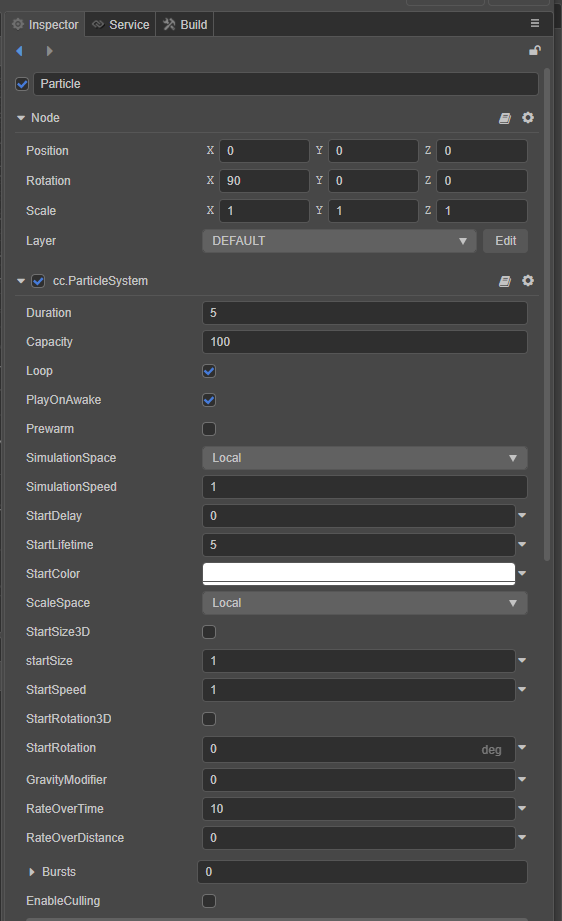
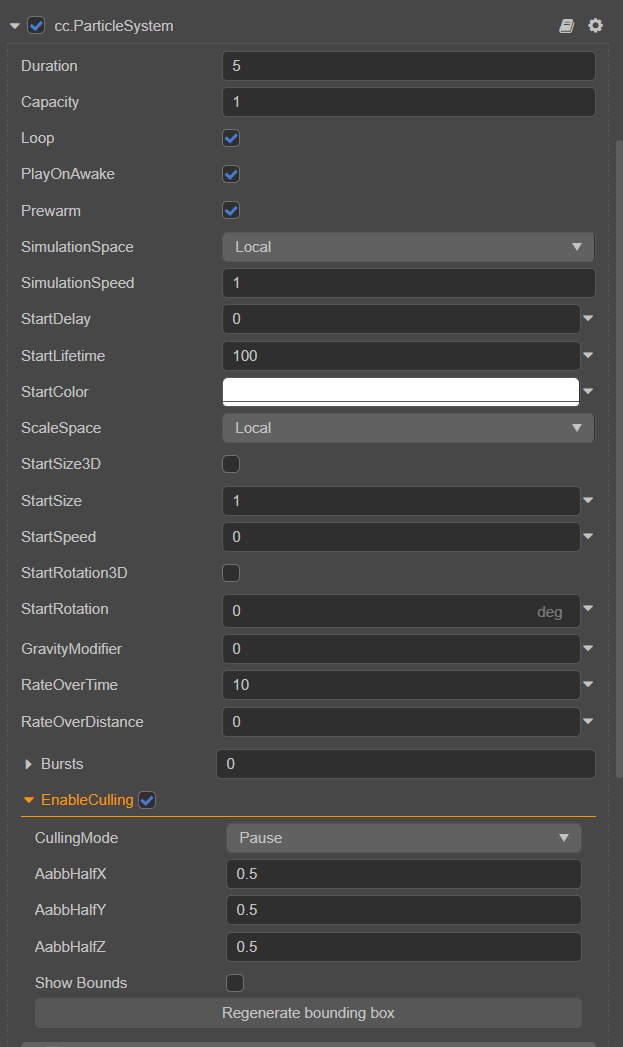
update docs

diff --git a/zh/particle-system/overview.md b/zh/particle-system/overview.md
@@ -51,4 +51,4 @@ Cocos Creator 粒子系统用模块来组织功能，包括以下模块：
 
 ## 粒子剔除
 
-粒子系统目前支持在运行时根据粒子包围盒和视景体动态剔除粒子发射器，剔除的发射器将会暂停播放粒子特效直到相机再次看到粒子包围盒。勾选 EnableCulling 选项打开剔除功能，发射器将会自动计算出一个包围盒进行剔除运算，如果需要重新计算包围盒点击一下粒子播放面板的刷新按钮。剔除运算每一帧都会进行，适合一些耗时的特效，如果粒子个数少可以考虑关闭该选项。
+粒子系统目前支持在运行时根据粒子包围盒和视景体动态剔除粒子发射器，剔除的发射器将会暂停播放粒子特效直到相机再次看到粒子包围盒。勾选 EnableCulling 选项打开剔除功能，发射器将会自动计算出一个包围盒进行剔除运算，可以修改 AabbHalf 参数改变发射器包围盒的大小，如果需要重新计算包围盒点击 Regenerate bounding box 按钮。剔除运算每一帧都会进行，适合一些耗时的特效，如果粒子个数少可以考虑关闭该选项。

diff --git a/en/particle-system/overview.md b/en/particle-system/overview.md
@@ -51,4 +51,4 @@ The __Cocos Creator__ particle system uses modules to organize functions, includ
 
 ## Particle Culling
 
-Particle System emitter support frustum & aabb culling in runtime. If emitter is culled, particle system of the emitter will stop simulating until we see the emitter again. Click __EnableCulling__ option to open particle culling and then the emitter will calculate aabb automatically. Click restart button of the emitter will recalculate aabb. It's better to enable culling when the particle simulation is complex than the simple one. 
+Particle System emitter support frustum & aabb culling in runtime. If emitter is culled, particle system of the emitter will stop simulating until we see the emitter again. Click __EnableCulling__ option to open particle culling and then the emitter will calculate aabb automatically. You can change bounding box size in **AabbHalfX**, **AabbHalfY** and **AabbHalfZ**. Click **Regenerate bounding box** button will recalculate aabb. It's better to enable culling when the particle simulation is complex than the simple one. 
